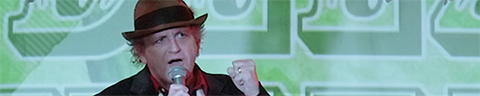
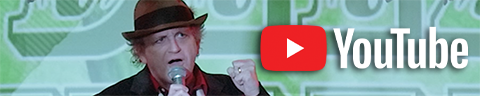
finally got uberscottw orking

Changed region(s): [[0.5312, 0.25, 1.0, 0.8125]]

diff --git a/uberscott.com/hugo/themes/uberscott/layouts/index.html b/uberscott.com/hugo/themes/uberscott/layouts/index.html
@@ -35,14 +35,26 @@
   <p>Scott was a software developer for 30 years. Then he slipped into a coma and forgot how to code. So now Scott is a stand up comedian and actor.</p>
 
   <p>Scott doesn't always tell the finest jokes but he does tell those jokes only to the finest people. <em>Are you one of those fine people?</em> <strong>I think maybe you ARE!</strong></p>
+
+
+  </article>
+  <article id="comedy">
+  <h2>YouTube Comedy</h2>
+       <a href="http://youtube.com/@uberscott"><img src="{{"images/comedy.png" | relURL }}" alt="YouTube comedy channel"></a>
+  </article>
+  <article id="like">
+  <h2>Like &amp; Subscribe</h2>
+  <p>Uberscott needs your support! Please Like and Subscribe:</p>
+<script src="https://apis.google.com/js/platform.js"></script>
+
+<div class="g-ytsubscribe" data-channelid="UC-NzZmj7M6qs09JjiOXg0Tg" data-layout="default" data-theme="dark" data-count="default"></div>
+
   </article>
 
-  <article id="comedy">
-  <h2>Comedy</h2>
-       <a href="{{"/projects/deez-nutz/" | relURL }}"><img src="{{"images/comedy.png" | relURL }}" alt="Deez Nutz 3 Clubs"></a>
-  </article>
+
   <article id="projects">
-  <h2>Projects</h2>
+  <h2>Dead Software Projects</h2>
+  <p><em>kids! don't be a software developer like I was!</em></p>
        <a href="{{"/projects/astrobattle/" | relURL }}"><img src="{{"images/astro-battle.png" | relURL }}" alt="Astro Battle"></a>
        <a href="{{"/projects/maximum-movie-mode/" | relURL }}"><img src="{{"images/maximum-movie-mode.png" | relURL }}" alt="Warner Brothers Blu-Ray Maximum Movie Mode"></a>
        <a href="{{"/projects/recert5/" | relURL }}"><img src="{{"images/recert5.png" | relURL }}" alt="Recert5"></a>
@@ -52,7 +64,7 @@
 
   <article id="contact">
   <h2>Contact</h2>
-  Reach out to Uberscott by emailing him: <strong>scott@uberscott.com</strong>
+  Reach out to Uberscott by emailing him: <a href="mailto:scott@uberscott.com"><strong>scott@uberscott.com</strong></a>
   </article>
 
 

diff --git a/uberscott.com/hugo/public/index.html b/uberscott.com/hugo/public/index.html
@@ -36,14 +36,26 @@
   <p>Scott was a software developer for 30 years. Then he slipped into a coma and forgot how to code. So now Scott is a stand up comedian and actor.</p>
 
   <p>Scott doesn't always tell the finest jokes but he does tell those jokes only to the finest people. <em>Are you one of those fine people?</em> <strong>I think maybe you ARE!</strong></p>
+
+
+  </article>
+  <article id="comedy">
+  <h2>YouTube Comedy</h2>
+       <a href="http://youtube.com/@uberscott"><img src="/images/comedy.png" alt="Deez Nutz 3 Clubs"></a>
+  </article>
+  <article id="like">
+  <h2>Like &amp; Subscribe</h2>
+  <p>Become a superfan! Like and Subscribe:</p>
+<script src="https://apis.google.com/js/platform.js"></script>
+
+<div class="g-ytsubscribe" data-channelid="UC-NzZmj7M6qs09JjiOXg0Tg" data-layout="default" data-theme="dark" data-count="default"></div>
+
   </article>
 
-  <article id="comedy">
-  <h2>Comedy</h2>
-       <a href="/projects/deez-nutz/"><img src="/images/comedy.png" alt="Deez Nutz 3 Clubs"></a>
-  </article>
+
   <article id="projects">
-  <h2>Projects</h2>
+  <h2>Dead Software Projects</h2>
+  <p><em>kids! don't be a software developer like me!</em></p>
        <a href="/projects/astrobattle/"><img src="/images/astro-battle.png" alt="Astro Battle"></a>
        <a href="/projects/maximum-movie-mode/"><img src="/images/maximum-movie-mode.png" alt="Warner Brothers Blu-Ray Maximum Movie Mode"></a>
        <a href="/projects/recert5/"><img src="/images/recert5.png" alt="Recert5"></a>
@@ -53,7 +65,7 @@
 
   <article id="contact">
   <h2>Contact</h2>
-  Reach out to Uberscott by emailing him: <strong>scott@uberscott.com</strong>
+  Reach out to Uberscott by emailing him: <a href="mailto:scott@uberscott.com"><strong>scott@uberscott.com</strong></a>
   </article>
 
 

diff --git a/uberscott.com/hugo/public/projects/the-canary-sings/index.html b/uberscott.com/hugo/public/projects/the-canary-sings/index.html
@@ -42,10 +42,10 @@
 <p>A Mobile App Dashboard for your Shopify Store</p>
 <h2 id="what-is-it">What is it?</h2>
 <p>Shopify owners need to know if their store is profitable on the go&hellip; this is especially true if they are paying for variable Facebook Ads!  The Canary Sings tracks the profitability of your store by subtracting Cost of Goods and Facebook Ads from Sales in real time and sings a little song every time your store makes a sale!</p>
-<h2 id="circa">Circa</h2>
-<p>2020 - CURRENT</p>
 <h2 id="what-i-did">What I did</h2>
 <p>Programmed the Java Backend and Flutter Frontend.  I even animated the little Canary!</p>
+<h2 id="what-happened">What Happened?</h2>
+<p>Nobody downloaded this App.  I mean not a single person.  Its defunct now but it was quite the App!</p>
 
 
 

diff --git a/uberscott.com/hugo/public/css/project.css b/uberscott.com/hugo/public/css/project.css
@@ -1,6 +1,7 @@
 section#content {
   margin-top: 16px;
   width: 960px;
+  max-width: 95%;
   margin-left: auto;
   margin-right: auto;
   margin-bottom: 128px;
@@ -9,6 +10,7 @@ section#content {
 img.title {
   margin: 0px;
   width: 960px;
+  max-width: 95%;
 }
 
 h1  {
@@ -35,9 +37,6 @@ h1#project-name {
     margin-bottom: 128px;
   }
 
-  html {
-    background-color: red;
-  }
 
 }
 

diff --git a/uberscott.com/hugo/static/css/project.css b/uberscott.com/hugo/static/css/project.css
@@ -1,6 +1,7 @@
 section#content {
   margin-top: 16px;
   width: 960px;
+  max-width: 95%;
   margin-left: auto;
   margin-right: auto;
   margin-bottom: 128px;
@@ -9,6 +10,7 @@ section#content {
 img.title {
   margin: 0px;
   width: 960px;
+  max-width: 95%;
 }
 
 h1  {
@@ -35,9 +37,6 @@ h1#project-name {
     margin-bottom: 128px;
   }
 
-  html {
-    background-color: red;
-  }
 
 }
 

diff --git a/uberscott.com/hugo/public/projects/astrobattle/index.html b/uberscott.com/hugo/public/projects/astrobattle/index.html
@@ -58,6 +58,13 @@
   <div class="media">
 
   
+  
+<div style="width:100%,height:316px">
+<iframe src="https://www.youtube.com/embed/7jV_4oWMdWA" title="YouTube video player" frameborder="0" allow="accelerometer; autoplay; clipboard-write; encrypted-media; gyroscope; picture-in-picture" allowfullscreen style="width:100%; height: 500px"></iframe>
+
+</div>
+  
+  
 
   
 

diff --git a/uberscott.com/hugo/public/css/home.css b/uberscott.com/hugo/public/css/home.css
@@ -21,10 +21,8 @@ section#content {
 }
 
 
-
-/* On screens that are 992px or less, set the background color to blue */
-@media screen and (max-width: 480px) {
-
+@media only screen and (min-height: 915px) and (orientation: portrait)
+{
 	a > img {
 		width: 100%
 	}
@@ -49,7 +47,6 @@ section#content {
     margin-right: auto;
     margin-bottom: 128px;
   }
-
 
 }
 

diff --git a/uberscott.com/hugo/static/css/home.css b/uberscott.com/hugo/static/css/home.css
@@ -21,10 +21,8 @@ section#content {
 }
 
 
-
-/* On screens that are 992px or less, set the background color to blue */
-@media screen and (max-width: 480px) {
-
+@media only screen and (min-height: 915px) and (orientation: portrait)
+{
 	a > img {
 		width: 100%
 	}
@@ -49,7 +47,6 @@ section#content {
     margin-right: auto;
     margin-bottom: 128px;
   }
-
 
 }
 

diff --git a/uberscott.com/hugo/public/css/common.css b/uberscott.com/hugo/public/css/common.css
@@ -4,10 +4,22 @@ html {
   font-weight: 150;
 }
 
+img {
+	max-width: 95%;
+}
+
+
 body{
   margin: 0px;
 }
 
+
+.media {
+	max-width: 90%;
+	margin-left: auto;
+	margin-right: auto;
+
+}
 
 
 header {

diff --git a/uberscott.com/hugo/static/css/common.css b/uberscott.com/hugo/static/css/common.css
@@ -4,10 +4,22 @@ html {
   font-weight: 150;
 }
 
+img {
+	max-width: 95%;
+}
+
+
 body{
   margin: 0px;
 }
 
+
+.media {
+	max-width: 90%;
+	margin-left: auto;
+	margin-right: auto;
+
+}
 
 
 header {

diff --git a/uberscott.com/hugo/content/projects/the-canary-sings.md b/uberscott.com/hugo/content/projects/the-canary-sings.md
@@ -10,10 +10,10 @@ A Mobile App Dashboard for your Shopify Store
 ## What is it?
 Shopify owners need to know if their store is profitable on the go... this is especially true if they are paying for variable Facebook Ads!  The Canary Sings tracks the profitability of your store by subtracting Cost of Goods and Facebook Ads from Sales in real time and sings a little song every time your store makes a sale!
 
-## Circa 
-2020 - CURRENT 
-
 ## What I did
 Programmed the Java Backend and Flutter Frontend.  I even animated the little Canary!
+
+## What Happened?
+Nobody downloaded this App.  I mean not a single person.  Its defunct now but it was quite the App!
 
 

diff --git a/uberscott.com/hugo/content/projects/astrobattle.md b/uberscott.com/hugo/content/projects/astrobattle.md
@@ -4,6 +4,7 @@ image: "/images/astrobattle/title-pic.png"
 
 screenshots: ["designpanel.png","astro-battle11.png","astro-battle9.png","astro-battle10.png","astro-battle12.png"]
 
+videos: ["7jV_4oWMdWA"]
 ---
 
 ## Project 
